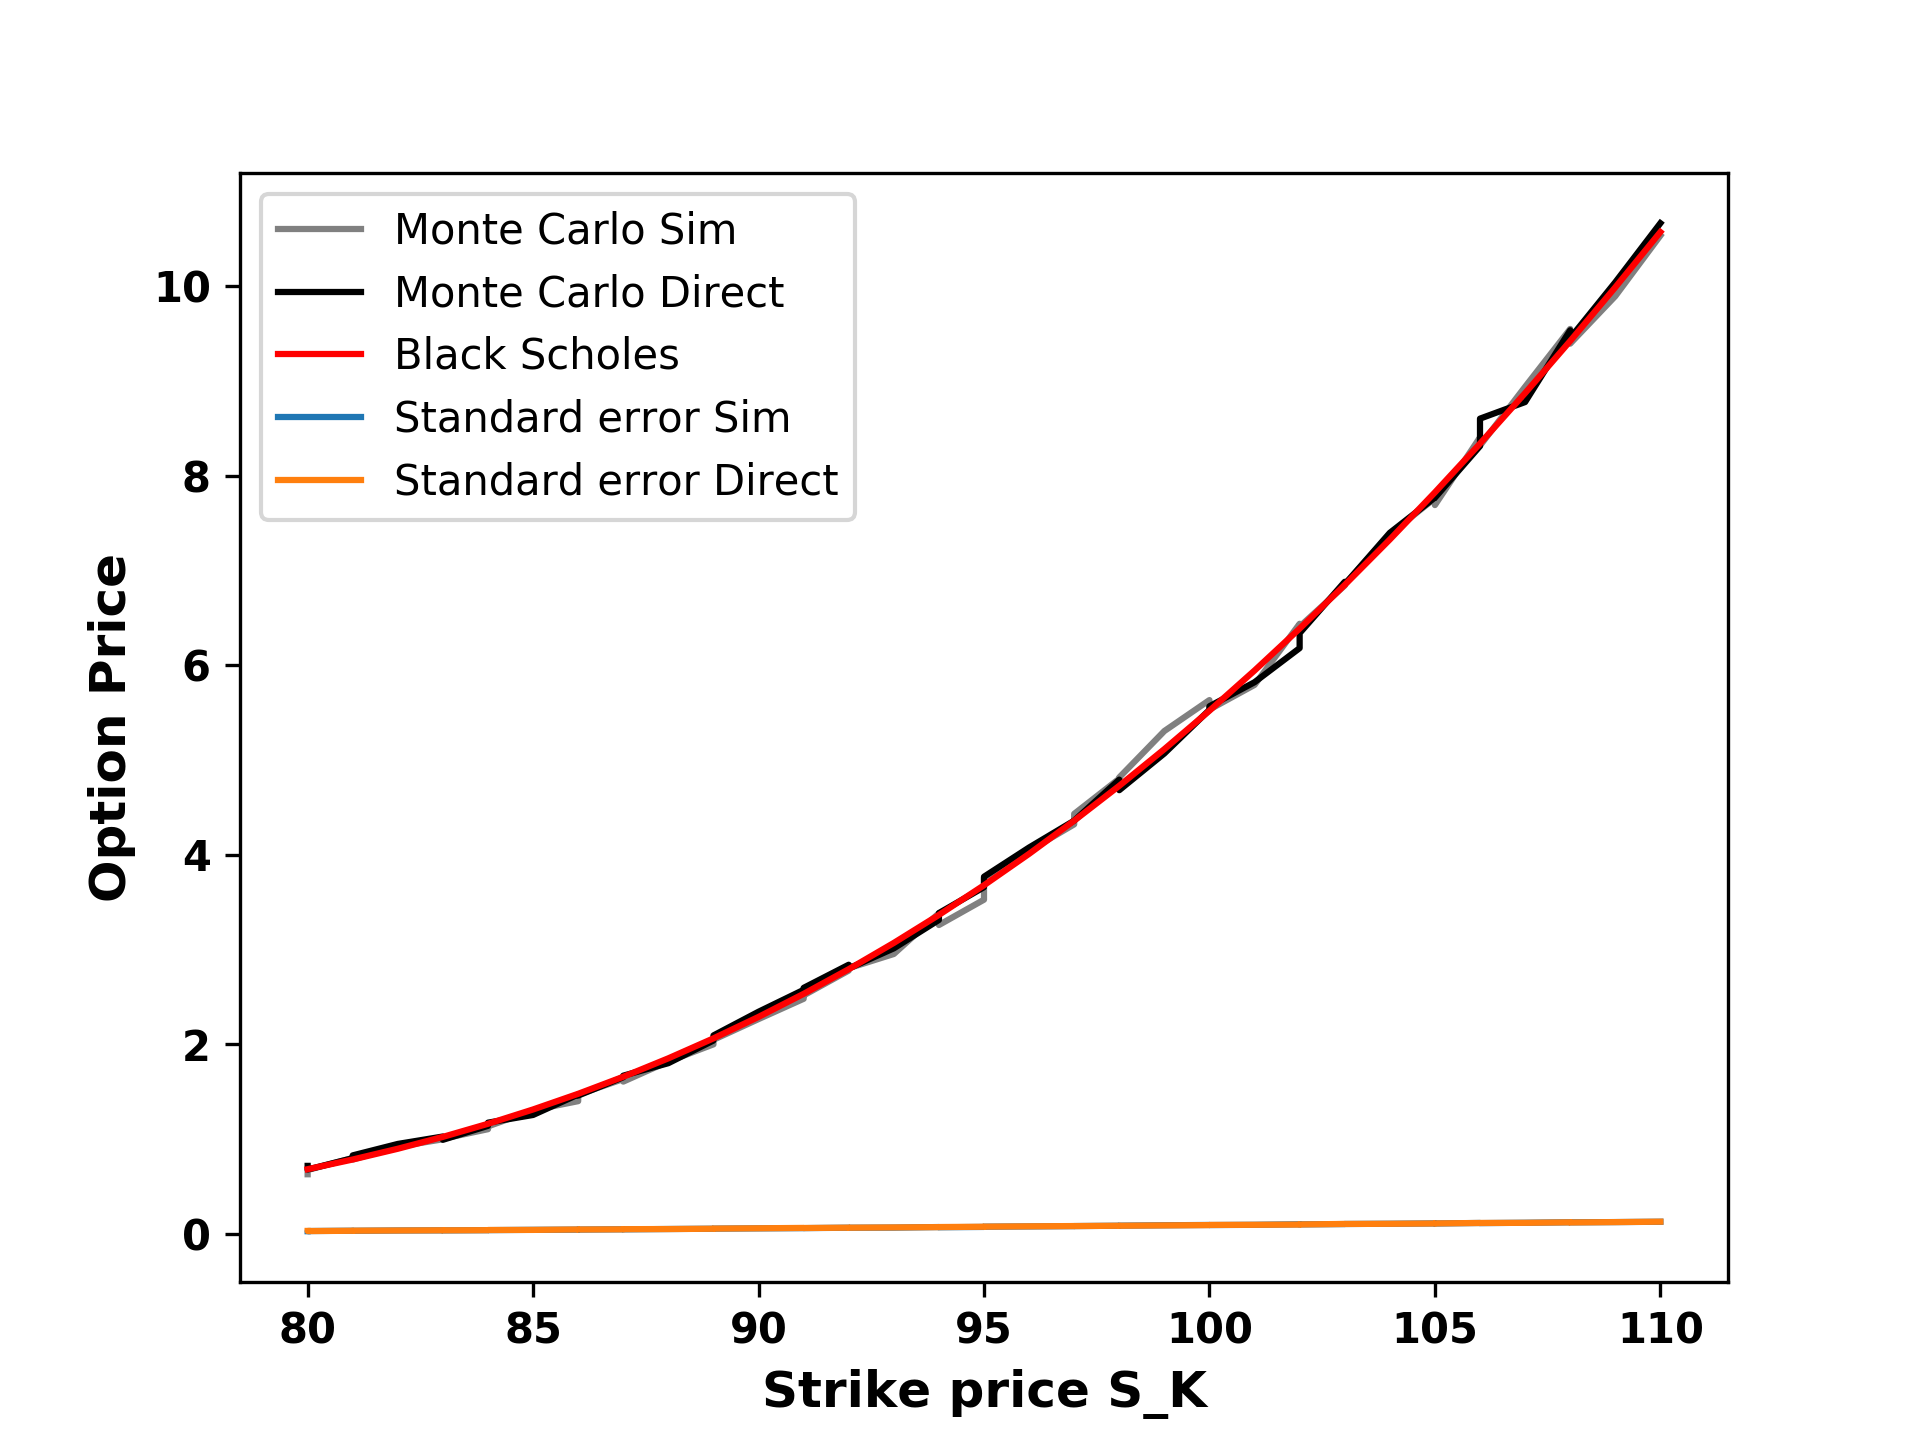
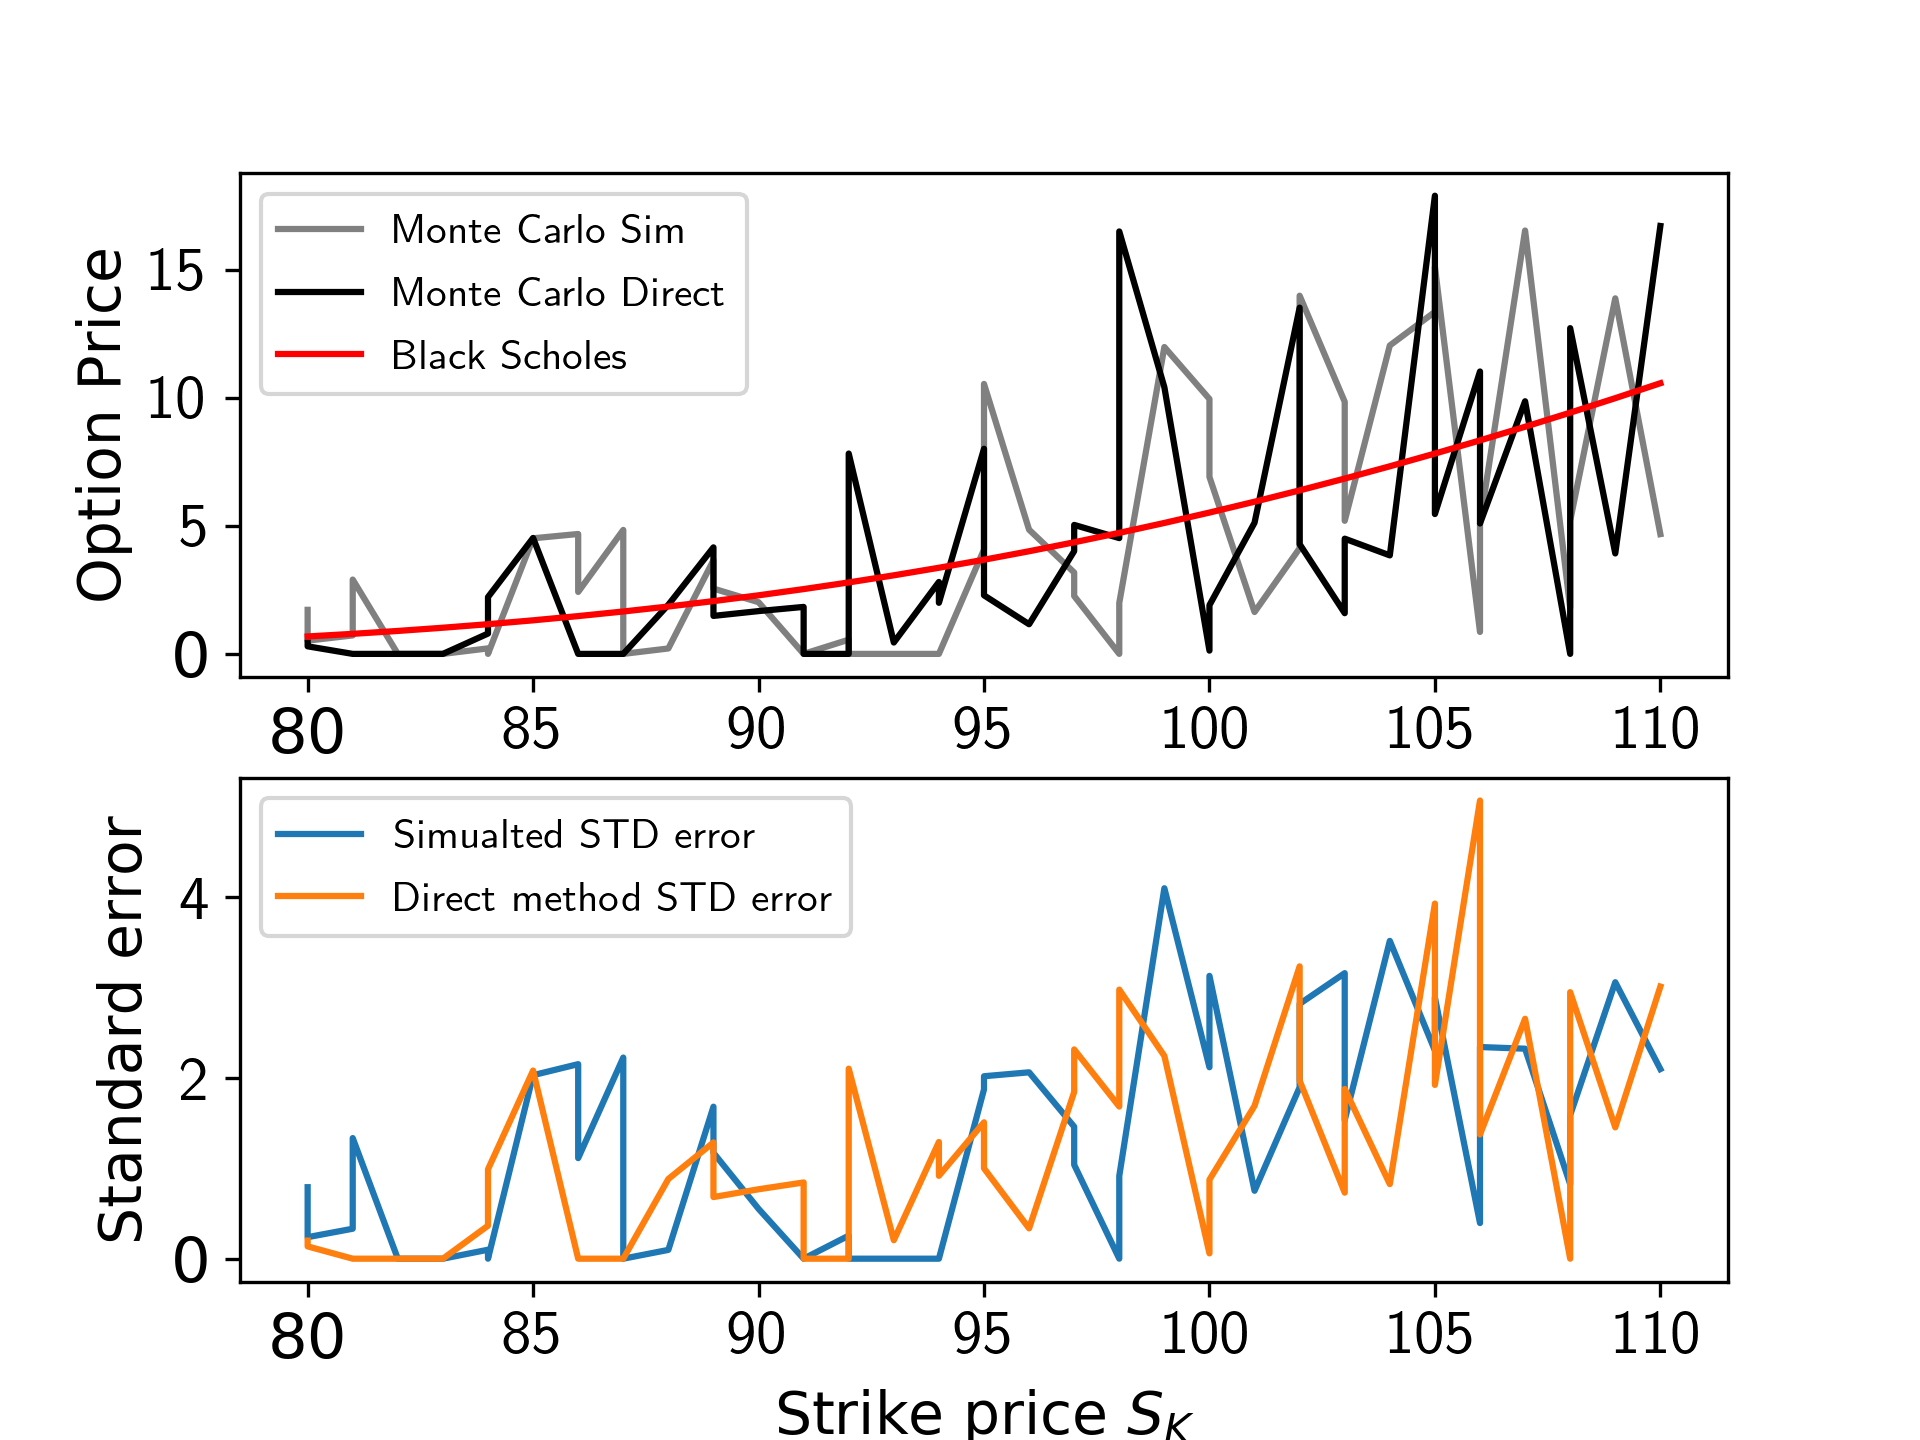
- Made the euler_process parallel - Change euler_integration method to euler_integration_method so might conflict with Julien's code

diff --git a/Assignment 2/helper.py b/Assignment 2/helper.py
@@ -17,6 +17,8 @@ from collections import defaultdict
 import multiprocessing
 from Binomial_tree import BinTreeOption, BlackScholes
 import tqdm
+import pickle
+from matplotlib import rc
 
 
 
@@ -51,6 +53,16 @@ def plot_wiener_process(T, S0, K, r, sigma, steps,save_plot=False):
     plt.close()
 
 
+def worker_pay_off_euler(object):
+    np.random.seed()
+    object.euler_integration_method()
+    pay_off_array_sim = np.max([(object.K - object.euler_price_path[-1]), 0])
+    pay_off_array_direct = np.max([(object.K - object.euler_integration), 0])
+
+    return pay_off_array_sim,pay_off_array_direct
+
+
+
 def diff_monte_carlo_process(T, S0, K, r, sigma, steps,save_plot=False):
     """
     :param T:  Period
@@ -77,6 +89,8 @@ def diff_monte_carlo_process(T, S0, K, r, sigma, steps,save_plot=False):
 
         pay_off_array_sim=np.zeros(rep)
         pay_off_array_direct = np.zeros(rep)
+
+        mc_list=[mc]
         for j in range(rep):
             mc = monte_carlo(steps, T, S0, sigma, r, K)
             mc.euler_integration()
@@ -92,6 +106,12 @@ def diff_monte_carlo_process(T, S0, K, r, sigma, steps,save_plot=False):
         mc_pricing_list_sim.append(np.exp(-r*T)*mc_mean_pay_off_sim)
         mc_pricing_list_direct.append(np.exp(-r * T) * mc_mean_pay_off_direct)
 
+    '''
+    #saving the Data
+    pickle.dump(mc_pricing_list_sim, open('Data/mc_pricing_list_sim_MC.pkl', 'wb'))
+    pickle.dump(mc_pricing_list_direct, open('Data/mc_pricing_list_direct_MC.pkl', 'wb'))
+    pickle.dump(mc_error_list_sim, open('Data/mc_error_list_sim_MC.pkl', 'wb'))
+    pickle.dump(mc_error_list_direct, open('Data/mc_error_list_direct_MC.pkl', 'wb'))
 
     bs = BlackScholes(T, S0, K, r, sigma)
 
@@ -114,7 +134,7 @@ def diff_monte_carlo_process(T, S0, K, r, sigma, steps,save_plot=False):
     plt.show()
     plt.close()
 
-
+    '''
 
 
 def diff_K_monte_carlo_process(T,K, S0, r, sigma, steps,save_plot=False):
@@ -129,59 +149,64 @@ def diff_K_monte_carlo_process(T,K, S0, r, sigma, steps,save_plot=False):
     :return:  returns a plot of a simulated stock movement
     """
 
+    repetition = 4
+    different_k = np.linspace(80,110,dtype=int)
+    mc_pricing = defaultdict(list)
 
+    for diff_strike_price in tqdm.tqdm(different_k):
 
-    max_repetition = 10000
-    different_K = np.linspace(80,110,dtype=int)
-    mc_pricing_list_sim = []
-    mc_pricing_list_direct = []
+        mc_list = [monte_carlo(steps, T, S0, sigma, r, diff_strike_price) for i in range(repetition)]
+        num_core = 3
+        pool = multiprocessing.Pool(num_core)
+        pay_off_list = pool.map(worker_pay_off_euler, ((mc) for mc in mc_list))
+        pool.close()
+        pool.join()
 
-    mc_error_list_sim = []
-    mc_error_list_direct = []
+        mean_pay_off_sim = np.mean([pay_off[0] for pay_off in pay_off_list])
+        mean_pay_off_direct = np.mean([pay_off[1] for pay_off in pay_off_list])
 
-    for diff_strike_price in tqdm.tqdm(different_K):
+        std_pay_off_sim = np.std([pay_off[0] for pay_off in pay_off_list])/repetition
+        std_pay_off_direct = np.std([pay_off[1] for pay_off in pay_off_list]) / repetition
 
-        pay_off_array_sim=np.zeros(max_repetition)
-        pay_off_array_direct = np.zeros(max_repetition)
-        for j in range(max_repetition):
-            mc = monte_carlo(steps, T, S0, sigma, r, diff_strike_price)
-            mc.euler_integration()
-            pay_off_array_sim[j] = np.max([(mc.K-mc.euler_price_path[-1]), 0])
-            pay_off_array_direct[j] = np.max([(mc.K - mc.euler_integration), 0])
+        mc_pricing['simualted_path'].append((np.exp(-r*T)*mean_pay_off_sim ,std_pay_off_sim))
+        mc_pricing['direct_method'].append((np.exp(-r * T) * mean_pay_off_direct,std_pay_off_direct))
 
-        mc_mean_pay_off_sim = np.mean(pay_off_array_sim)
-        mc_mean_pay_off_direct = np.mean(pay_off_array_direct)
-
-        mc_error_list_sim.append(np.std(pay_off_array_sim)/np.sqrt(max_repetition))
-        mc_error_list_direct.append(np.std(pay_off_array_direct) / np.sqrt(max_repetition))
-
-        mc_pricing_list_sim.append(np.exp(-r*T)*mc_mean_pay_off_sim)
-        mc_pricing_list_direct.append(np.exp(-r * T) * mc_mean_pay_off_direct)
-
-
-    bs_list=[]
-    for k in different_K:
+    bs_list= []
+    for k in different_k:
         bs = BlackScholes(T, S0, k, r, sigma)
         bs_list.append(bs.put_price())
 
+    fig, axs = plt.subplots(2)
+    rc('text', usetex=True)
+    axs[0].plot(different_k,[i[0] for i in mc_pricing['simualted_path']], color='gray', label='Monte Carlo Sim')
+    axs[0].plot(different_k,[i[0] for i in mc_pricing['direct_method']], color='k', label='Monte Carlo Direct')
+    axs[0].plot(different_k, bs_list, 'r', label='Black Scholes')
+    axs[0].legend()
+    axs[0].set_ylabel("Option Price",fontsize=14)
+    axs[0].tick_params(labelsize='15')
 
 
-    plt.figure()
-    plt.plot(different_K,mc_pricing_list_sim,color='gray',label='Monte Carlo Sim')
-    plt.plot(different_K, mc_pricing_list_direct, color='k', label='Monte Carlo Direct')
-    plt.plot(different_K,bs_list,'r',label='Black Scholes')
-    plt.plot(different_K,mc_error_list_sim,label='Standard error Sim')
-    plt.plot(different_K,mc_error_list_direct,label='Standard error Direct')
-    plt.legend()
-    plt.plot()
-    plt.xlabel(r"Strike price S_K",fontsize=12,fontweight='bold')
-    plt.ylabel("Option Price",fontsize=12,fontweight='bold')
-    plt.xticks(fontweight='bold')
-    plt.yticks(fontweight='bold')
+    axs[1].plot(different_k,[i[1] for i in mc_pricing['simualted_path']],label='Simualted STD error')
+    axs[1].plot(different_k, [i[1] for i in mc_pricing['direct_method']],label='Direct method STD error')
+    axs[1].set_xlabel(r"Strike price $S_K$", fontsize=14)
+    axs[1].legend()
+    axs[1].set_ylabel("Standard error", fontsize=14)
+    axs[1].tick_params(labelsize='15')
+
+
     if save_plot:
-        plt.savefig("figures/"+"mc_euler_integration_diff_K",dpi=300)
+        plt.savefig("figures/" + "mc_euler_integration_diff_K", dpi=300)
     plt.show()
     plt.close()
+    plt.show()
+
+
+
+    #saving the Data
+    # pickle.dump(mc_pricing_list_sim, open('Data/mc_pricing_list_sim_K.pkl', 'wb'))
+    # pickle.dump(mc_pricing_list_direct, open('Data/mc_pricing_list_direct_K.pkl', 'wb'))
+    # pickle.dump(mc_error_list_sim, open('Data/mc_error_list_sim_K.pkl', 'wb'))
+    # pickle.dump(mc_error_list_direct, open('Data/mc_error_list_direct_K.pkl', 'wb'))
 
 
 def milstein_process(T, S0, K, r, sigma, steps,save_plot=False):
@@ -306,3 +331,4 @@ def bump_and_revalue(
 ########################################################################################################################
 ########################################################################################################################
 ########################################################################################################################
+

diff --git a/Assignment 2/monte_carlo.py b/Assignment 2/monte_carlo.py
@@ -37,8 +37,8 @@ class monte_carlo:
                 price * np.random.normal(0, 1) * np.sqrt(self.dt)
             price += ds
 
-    def euler_integration(self):
-        self.euler_integration = self.S0 * np.exp((self.r - 0.5 * self.sigma**2) * self.T + self.sigma *
+    def euler_integration_method(self):
+        self.euler_integration= self.S0 * np.exp((self.r - 0.5 * self.sigma**2) * self.T + self.sigma *
                                                  np.sqrt(self.T)*np.random.normal(0, 1))
 
         price = self.price
@@ -50,7 +50,8 @@ class monte_carlo:
             price = ds
 
 
-
+        euler_int=self.euler_integration
+        return euler_int
 
     def milstein_method(self):
         """

diff --git a/Assignment 2/main.py b/Assignment 2/main.py
@@ -20,9 +20,12 @@ Basic Option Valuation :
 '''
 
 #helper.plot_wiener_process(1, 100, 99, 0.06, 0.2, steps=365,save_plot=False)
+
 #helper.monte_carlo_process(1, 100, 99, 0.06, 0.2, steps=365,save_plot=False)
+
 #helper.diff_monte_carlo_process(1, 100, 99, 0.06, 0.2, steps=365,save_plot=True)
 helper.diff_K_monte_carlo_process(1, 100,99, 0.06, 0.2, steps=365,save_plot=True)
+
 
 #helper.test(1, 100, 99, 0.06, 0.2, steps=365,save_plot=False)
 #helper.milstein_process(1, 100, 99, 0.06, 0.2, steps=365,save_plot=False)
